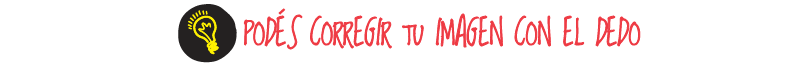
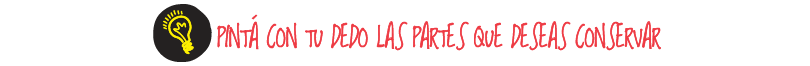
ss
ss

Changed region(s): [[0.1852, 0.0606, 0.8333, 0.9697]]

diff --git a/chiclets.css b/chiclets.css
@@ -115,8 +115,16 @@ clear:both!important;
 
 .controlador{ display:block; width:500px; height:20px; background-color:#C00; position:absolute; top:-90px; left:50%; margin-left:-250px;}
 
-.aclaracion{ display:block; width:810px; height:66px; background:url(images/podes-corregir.png) center center no-repeat; background-size:100%; position:absolute; left:50%; margin-left:-405px; top:-50px;}
+.aclaracion{ display:block; width:810px; height:66px; background:url(images/podes-corregir_dedo.png) center center no-repeat; background-size:100%; position:absolute; left:50%; margin-left:-405px; top:-50px;}
 
 .btreload{ display:block; background:url(images/bt_deshacer_cambios.png) center center no-repeat; background-size:100%; width:300px; height:81px; cursor:pointer; position:absolute; bottom:15px; right:40px;}
+
+.explicajustes{ display:block; width:810px; height:1080px; background:url(images/ajustes.png) top center no-repeat; background-size:100%; position:relative; left:50%; margin-left:-405px;}
+
+.paragifs{ display:block; width:810px; height:390px; position:absolute; text-align:center; left:50%; margin-left:-405px; top:660px;}
+
+.gif1{display: inline-block;  width:320px; height:390px; position:relative; background:url(images/tolerancia.gif) center center no-repeat; background-size:90%; margin-right:50px;}
+.gif2{display: inline-block;  width:320px; height:390px; position:relative; background:url(images/borra-cara.gif) center center no-repeat; background-size:90%; margin-left:50px;}
+
 
 

diff --git a/estilo_811.css b/estilo_811.css
@@ -83,5 +83,8 @@
 
 
 .controlador{ display:block; width:500px; height:20px; background-color:#C00; position:absolute; top:-90px; left:50%; margin-left:-250px;}
+.explicajustes{ display:block; width:810px; height:1015px; background:url(images/ajustes.png) top center no-repeat; background-size:100%; position:relative; left:50%; margin-left:-405px;}
 
+
+.paragifs{ display:block; width:810px; height:390px; top:660px; position:absolute; text-align:center; left:50%; margin-left:-405px;  }
 }

diff --git a/estilo_641.css b/estilo_641.css
@@ -63,6 +63,11 @@
 .btreload{  width:237px; height:54px; bottom:13px; right:40px;}
 
 .controlador{  width:396px; height:15px;  top:-85px; margin-left:-198px;}
+.explicajustes{  width:641px; height:803px; margin-left:-320px; margin-top:0px;}
 
+.paragifs{ width:641px;  margin-left:-320px; height:308px; top:522px;}
+
+.gif1{width:320px; height:390px; margin-right:50px;}
+.gif2{ width:320px; height:390px; margin-left:50px;}
 
 }

diff --git a/estilo_320.css b/estilo_320.css
@@ -63,5 +63,10 @@
 .btreload{  width:118px; height:32px; bottom:9px; right:20px;}
 
 .controlador{  width:198px; height:15px;  top:-55px; margin-left:-99px;}
+.explicajustes{  width:320px; height:400px; margin-left:-160px; margin-top:0px;}
 
+.paragifs{ width:320px;  margin-left:-160px; height:154px; top:260px;}
+
+.gif1{width:320px; height:390px; margin-right:50px;}
+.gif2{ width:320px; height:390px;  margin-left:50px;}
 }

diff --git a/estilo_481.css b/estilo_481.css
@@ -63,6 +63,8 @@
 .btreload{  width:178px; height:48px; bottom:8px; right:30px;}
 
 .controlador{  width:296px; height:17px;  top:-68px; margin-left:-148px;}
+.explicajustes{  width:481px; height:602px; margin-left:-240px; margin-top:0px;}
 
+.paragifs{ width:481px;  margin-left:-240px; height:231px; top:391px;}
 
 }
